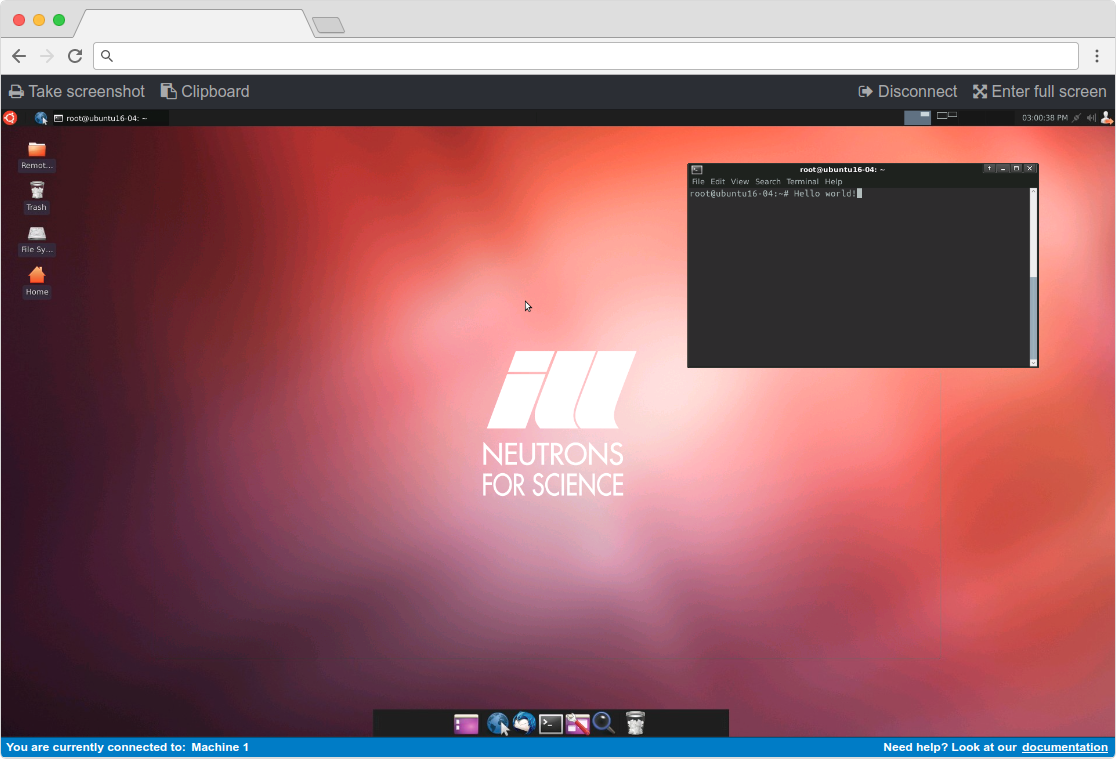
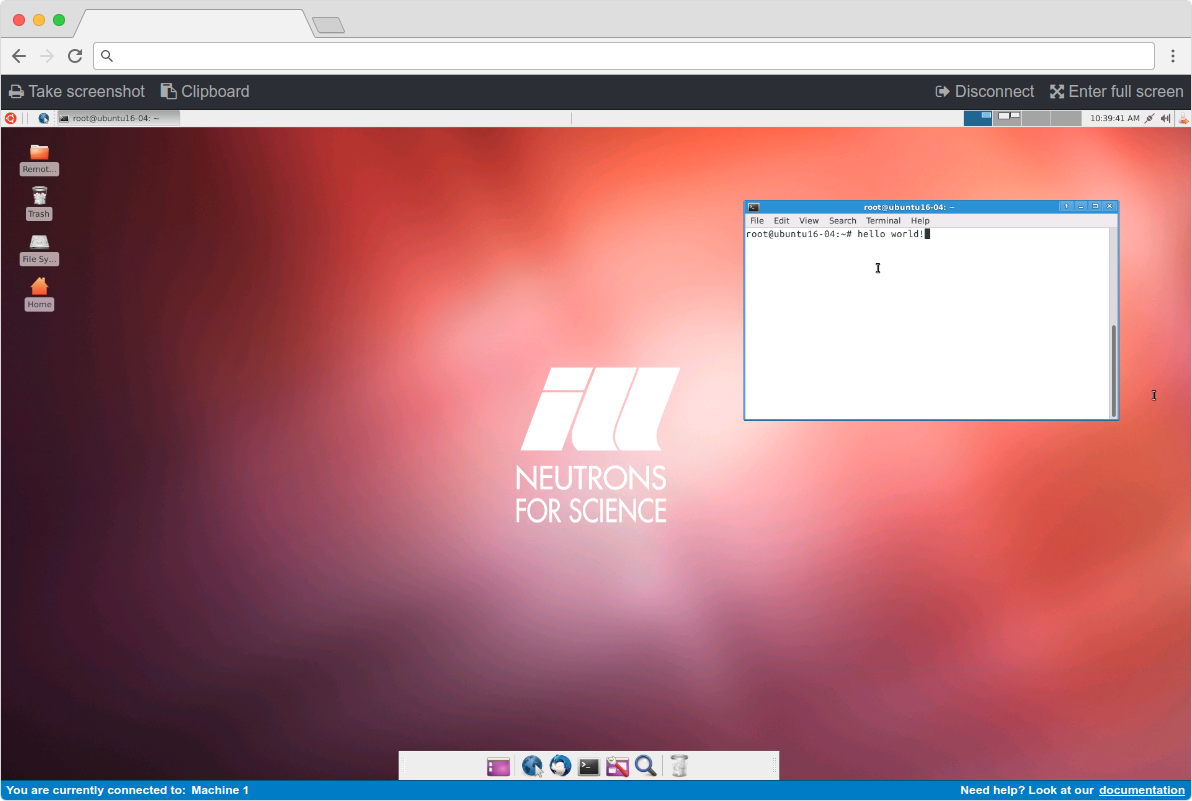
Made toolbar slideable

diff --git a/src/components/remote-desktop.component.ts b/src/components/remote-desktop.component.ts
@@ -27,16 +27,27 @@ import { ErrorMessageComponent } from './messages/error-message.component';
     selector: 'ngx-remote-desktop',
     template: `
         <main class="ngx-remote-desktop" #container>
-            <nav class="ngx-remote-desktop-toolbar" 
-                [class.ngx-remote-desktop-toolbar-fullscreen]="manager.isFullScreen()" 
-                    [@fadeInOut]="toolbarVisible" #toolbar>
+            <!-- Toolbar items template -->
+            <ng-template #toolbarItems>
                 <ul class="ngx-remote-desktop-toolbar-items">
                     <ng-content select='ngx-remote-desktop-toolbar-item[align=left]'></ng-content>
                 </ul>
                 <ul class="ngx-remote-desktop-toolbar-items">
                     <ng-content select='ngx-remote-desktop-toolbar-item[align=right]'></ng-content>
                 </ul>
+            </ng-template>
+            <!-- End toolbar items template -->
+            <!-- Normal toolbar -->
+            <nav class="ngx-remote-desktop-toolbar" *ngIf="!manager.isFullScreen()" >
+                <template [ngTemplateOutlet]="toolbarItems"></template>
             </nav>
+            <!-- End normal toolbar -->
+            <!-- Full screen toolbar -->
+            <nav class="ngx-remote-desktop-toolbar ngx-remote-desktop-toolbar-fullscreen" *ngIf="manager.isFullScreen()"
+                [@toolbarAnimation]="toolbarVisible" #toolbar>
+                <template [ngTemplateOutlet]="toolbarItems"></template>
+            </nav>
+            <!-- End full screen toolbar -->
             <section class="ngx-remote-desktop-container">
                 <!-- Connecting message -->
                 <div *ngIf="isState(states.CONNECTING)">
@@ -100,11 +111,11 @@ import { ErrorMessageComponent } from './messages/error-message.component';
     `,
     encapsulation: ViewEncapsulation.None,
     animations: [
-        trigger('fadeInOut', [
-            state('1', style({ display: 'visible' })),
-            state('0', style({ opacity: 0, visibility: 'hidden' })),
-            transition('1 => 0', animate('1000ms')),
-            transition('0 => 1', animate('0ms'))
+        trigger('toolbarAnimation', [
+            state('1', style({ transform: 'translateX(0%)' })),
+            state('0', style({ transform: 'translateX(-100%)' })),
+            transition('1 => 0', animate('200ms 200ms ease-out')),
+            transition('0 => 1', animate('225ms ease-in'))
         ])
     ],
 })

diff --git a/demo/app/app.component.ts b/demo/app/app.component.ts
@@ -62,7 +62,7 @@ export class AppComponent implements OnInit {
 
     ngOnInit() {
         // Setup tunnel. The tunnel can be either: WebsocketTunnel, HTTPTunnel or ChainedTunnel
-        const tunnel = new WebSocketTunnel('ws://hallpclnx.ill.fr:8080');
+        const tunnel = new WebSocketTunnel('ws://localhost:8080');
         // URL parameters (image, audio and other query parameters you want to send to the tunnel.)
         const parameters = {
             ip: '192.168.13.232',

diff --git a/additional-doc/installation.md b/additional-doc/installation.md
@@ -18,7 +18,7 @@ After installing, include `NgxRemoteDesktopModule` in your application module li
 ```typescript
 import { NgModule } from '@angular/core';
 import { BrowserModule } from '@angular/platform-browser';
-import { NgxRemoteDesktopModule } from '@ILLGrenoble/ngx-remote-desktop';
+import { NgxRemoteDesktopModule } from '@illgrenoble/ngx-remote-desktop';
 import { AppComponent } from './app.component';
 
 @NgModule({
